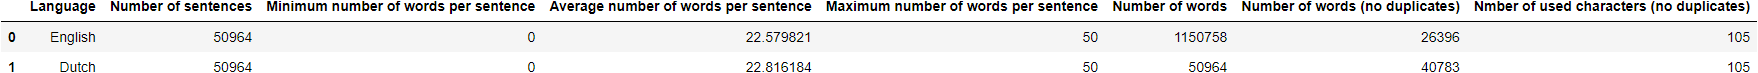
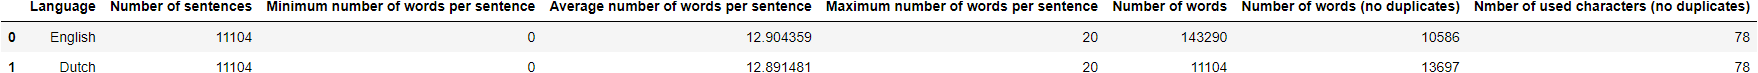
final models with word2vec and glvoe embedding

diff --git a/final.py b/final.py
@@ -6,7 +6,8 @@ from keras.models import Model, Sequential
 from keras.layers import Input, RepeatVector, GRU, Dense, TimeDistributed, Embedding, LSTM, Activation
 from keras.preprocessing.text import Tokenizer
 from keras_preprocessing.sequence import pad_sequences
-from keras.initializers import Constant
+from keras.initializers import Constant # for matrix with pre-trained embedding weights
+from gensim.models import KeyedVectors # to load in pretrained word2vec weights
 import dataframe_image as dfi
 
 # import corpuss
@@ -36,8 +37,8 @@ dfi.export(summary_corpus, "documentation/tables_as_image/summary_corpus.png")
 
 # select random data of corpus for tasks 2-4
 ## note: due to limited resources, 3% of the short sentences (<= 50 words) are taken as a sample
-nl_idx_short_sentences = [idx for idx, sentence in enumerate(corpus.nl) if len(sentence.split(" ")) <= 50] # the short sentence are determined by the dutch corpus as dutch tends to use more words than the english equivalent
-eng_idx_short_sentences = [idx for idx, sentence in enumerate(corpus.eng) if len(sentence.split(" ")) <= 50]
+nl_idx_short_sentences = [idx for idx, sentence in enumerate(corpus.nl) if len(sentence.split(" ")) <= 20] # the short sentence are determined by the dutch corpus as dutch tends to use more words than the english equivalent
+eng_idx_short_sentences = [idx for idx, sentence in enumerate(corpus.eng) if len(sentence.split(" ")) <= 20]
 idx_short_sentences = list(set(nl_idx_short_sentences) & set(eng_idx_short_sentences))
 corpus_short = corpus.filter(items=idx_short_sentences, axis=0)
 sample = corpus_short.sample(round(len(corpus_short) * 0.03))
@@ -124,7 +125,8 @@ dfi.export(summary_sample, "documentation/tables_as_image/summary_sample.png")
 
 
 # TASK 3: comparison of performance of neural machine translator depending word embedding and tokenization (word or character)
-# function for building ecoder-decoder model without embedding
+# no embedding:
+# function for building ecoder-decoder model without embedding (only one-hot representation)
 def encdec_model(input_shape, output_max_len, output_vocab_size):
     model = Sequential()
     model.add(GRU(64, input_shape = input_shape[1:], return_sequences = False))
@@ -144,10 +146,11 @@ nl2eng_encdec_char_model = encdec_model(nl_pad_sentence_char.shape, max_eng_len_
 
 
 
+# keras' native embedding model:
 # function for building ecoder-decoder model with Keras' embedding model
-def keras_embd_encdec_model(input_shape, output_max_len, output_vocab_size):
+def keras_embd_encdec_model(input_shape, output_max_len, output_vocab_size, input_vocab_size):
     model = Sequential()
-    model.add(Embedding(output_vocab_size, 64, input_length=input_shape[1])) #embeddings_initializer: Initializer for the embeddings matrix (see keras.initializers)
+    model.add(Embedding(input_vocab_size, 32, input_length=input_shape[1], trainable = True))
     model.add(GRU(64, return_sequences = False))
     model.add(RepeatVector(output_max_len))
     model.add(GRU(64, return_sequences = True))
@@ -156,17 +159,16 @@ def keras_embd_encdec_model(input_shape, output_max_len, output_vocab_size):
     return model
 
 # build word-based english to dutch and dutch to english translator with keras embedding
-eng2nl_keras_embd_encdec_word_model = keras_embd_encdec_model(eng_pad_sentence_word.shape, max_nl_len_word, nl_vocab)
-nl2eng_keras_embd_encdec_word_model = keras_embd_encdec_model(nl_pad_sentence_word.shape, max_eng_len_word, eng_vocab)
+eng2nl_keras_embd_encdec_word_model = keras_embd_encdec_model(eng_pad_sentence_word.shape, max_nl_len_word, nl_vocab, eng_vocab)
+nl2eng_keras_embd_encdec_word_model = keras_embd_encdec_model(nl_pad_sentence_word.shape, max_eng_len_word, eng_vocab, nl_vocab)
 
 # build character-based english to dutch and dutch to english translator with keras embedding
-eng2nl_keras_embd_encdec_char_model = keras_embd_encdec_model(eng_pad_sentence_char.shape, max_nl_len_char, nl_char)
-nl2eng_keras_embd_encdec_char_model = keras_embd_encdec_model(nl_pad_sentence_char.shape, max_eng_len_char, eng_char)
+eng2nl_keras_embd_encdec_char_model = keras_embd_encdec_model(eng_pad_sentence_char.shape, max_nl_len_char, nl_char, eng_char)
+nl2eng_keras_embd_encdec_char_model = keras_embd_encdec_model(nl_pad_sentence_char.shape, max_eng_len_char, eng_char, nl_char)
 
 
 
-
-
+# glove embedding:
 # get all of glove's pre-trained weights
 glove_word_vectors = {}
 with open("data\glove.6B.300d.txt", encoding="utf8") as glove_data:
@@ -178,16 +180,19 @@ with open("data\glove.6B.300d.txt", encoding="utf8") as glove_data:
 
 # select glove vectors whose words are also present in the english corpus and store it in a matrix
 glove_embedding_matrix = np.zeros((eng_vocab, 300)) # 300 = word vector dimension = number of weights per word in glove --> see: len(glove_word_vectors["the"])
+words_not_in_glove = []
 for word, i in eng_text_tokenizer_word.word_index.items():        
     embedding_vector = glove_word_vectors.get(word)
     if embedding_vector is not None: # non exisiting words will be zero            
         glove_embedding_matrix[i] = embedding_vector
+    else : 
+        words_not_in_glove.append(word)
 
-# function for building ecoder-decoder model with Keras' embedding model
-def glove_embd_encdec_model(input_shape, output_max_len, output_vocab_size):
+# function for building ecoder-decoder model with Glove embedding
+def glove_embd_encdec_model(input_shape, output_max_len, output_vocab_size, input_vocab_size):
     #build model
     model = Sequential()
-    model.add(Embedding(glove_embedding_matrix.shape[0], 300, input_length=input_shape[1], embeddings_initializer=Constant(glove_embedding_matrix)))
+    model.add(Embedding(input_vocab_size, 300, input_length=input_shape[1], embeddings_initializer=Constant(glove_embedding_matrix)))
     model.add(GRU(64, return_sequences = False))
     model.add(RepeatVector(output_max_len))
     model.add(GRU(64, return_sequences = True))
@@ -195,38 +200,100 @@ def glove_embd_encdec_model(input_shape, output_max_len, output_vocab_size):
     model.compile(loss='sparse_categorical_crossentropy', optimizer='adam', metrics=['accuracy'])
     return model
 
-# build models capable of using glove
-eng2nl_glove_embd_encdec_word_model = glove_embd_encdec_model(eng_pad_sentence_word.shape, max_nl_len_word, nl_vocab)
+# build models (only those capable of using pretrained glove: english as input language and word-based)
+eng2nl_glove_embd_encdec_word_model = glove_embd_encdec_model(eng_pad_sentence_word.shape, max_nl_len_word, nl_vocab, eng_vocab)
 
-#other pretrained weights: https://code.google.com/archive/p/word2vec/
-done_models = [
+
+
+# word2vec embedding:
+# word2vec embedding based on pre-trained weights (source: https://code.google.com/archive/p/word2vec/):
+word2vec = KeyedVectors.load_word2vec_format("data\GoogleNews-vectors-negative300.bin", binary=True) # get all pretrained weigths
+
+# select word2vec vectors whose words are also present in the english corpus and store it in a matrix
+word2vec_embedding_matrix = np.zeros((eng_vocab, 300)) # 300 = word2vec vector dimension (= 300 weigths per word)
+words_not_in_word2vec = []
+for word, i in eng_text_tokenizer_word.word_index.items():  
+    if word in word2vec : 
+        word2vec_embedding_matrix[i] = word2vec[word]
+    else : 
+        words_not_in_word2vec.append(word)
+
+# function for building ecoder-decoder model with word2vec embedding
+def word2vec_embd_encdec_model(input_shape, output_max_len, output_vocab_size, input_vocab_size):
+    #build model
+    model = Sequential()
+    model.add(Embedding(input_vocab_size, 300, input_length=input_shape[1], embeddings_initializer=Constant(word2vec_embedding_matrix))) # 300 due to word2vec vector dimension
+    model.add(GRU(64, return_sequences = False))
+    model.add(RepeatVector(output_max_len))
+    model.add(GRU(64, return_sequences = True))
+    model.add(TimeDistributed(Dense(output_vocab_size, activation = 'softmax')))
+    model.compile(loss='sparse_categorical_crossentropy', optimizer='adam', metrics=['accuracy'])
+    return model
+
+# build models (only those capable of using pretrained word2vec: english as input language and word-based)
+eng2nl_word2vec_embd_encdec_word_model = word2vec_embd_encdec_model(eng_pad_sentence_word.shape, max_nl_len_word, nl_vocab, eng_vocab)
+
+
+
+# TASK 4: neural machine translation with attention (based on guide: https://towardsdatascience.com/light-on-math-ml-attention-with-keras-dc8dbc1fad39)
+#https://github.com/thushv89/attention_keras
+from attention_keras.src.layers.attention import AttentionLayer
+
+def attention_encdec_model():
+    model = Sequential()
+    return model
+
+# build models with attention mechanism
+
+
+model_training_manuals = [
+    {   
+        "title" : "English to Dutch translator (word-based, Word2Vec embedding)",
+        "model" : eng2nl_word2vec_embd_encdec_word_model,
+        "X" : eng_pad_sentence_word,
+        "y" : nl_pad_sentence_word
+    },
+    {   
+        "title" : "English to Dutch translator (word-based, Glove embedding)",
+        "model" : eng2nl_glove_embd_encdec_word_model,
+        "X" : eng_pad_sentence_word,
+        "y" : nl_pad_sentence_word
+    }, 
     {   
         "title" : "English to Dutch translator (word-based)",
         "model" : eng2nl_encdec_word_model,
         "X" : eng_pad_sentence_word,
         "y" : nl_pad_sentence_word
     },
+
     {
         "title" : "Dutch to English translator (word-based)",
         "model" : nl2eng_encdec_word_model,
         "X" : nl_pad_sentence_word,
         "y" : eng_pad_sentence_word
     },
+
     {
         "title" : "English to Dutch translator (char-based)", 
         "model" : eng2nl_encdec_char_model,
         "X" : eng_pad_sentence_char,
         "y" : nl_pad_sentence_char
     },
+
     {
         "title" :"Dutch to English translator (char-based)", 
         "model" : nl2eng_encdec_char_model,
         "X" : nl_pad_sentence_char,
         "y" : eng_pad_sentence_char
+    }, 
+
+    {
+        "title" : "Dutch to English translator (word-based, Keras' embedding)",
+        "model" : nl2eng_keras_embd_encdec_word_model,
+        "X" : nl_pad_sentence_word,
+        "y" : eng_pad_sentence_word
     },
-]
-model_training_manuals = [
-    
+
     {   
         "title" : "English to Dutch translator (word-based, Keras' embedding)",
         "model" : eng2nl_keras_embd_encdec_word_model,
@@ -234,29 +301,18 @@ model_training_manuals = [
         "y" : nl_pad_sentence_word
     },
     {
-        "title" : "Dutch to English translator (word-based, Keras' embedding)",
-        "model" : nl2eng_keras_embd_encdec_word_model,
-        "X" : nl_pad_sentence_word,
-        "y" : eng_pad_sentence_word
-    },
-    {
         "title" : "English to Dutch translator (char-based, Keras' embedding)", 
         "model" : eng2nl_keras_embd_encdec_char_model,
         "X" : eng_pad_sentence_char,
         "y" : nl_pad_sentence_char
     },
+
     {
         "title" :"Dutch to English translator (char-based, Keras' embedding)", 
         "model" : nl2eng_keras_embd_encdec_char_model,
         "X" : nl_pad_sentence_char,
         "y" : eng_pad_sentence_char
-    },
-    {   
-        "title" : "English to Dutch translator (word-based, Glove embedding)",
-        "model" : eng2nl_glove_embd_encdec_word_model,
-        "X" : eng_pad_sentence_word,
-        "y" : nl_pad_sentence_word
-    },
+    }
 ]
 
 
@@ -268,10 +324,10 @@ for manual in model_training_manuals:
     manual["model"].summary()
 
     # train and test model
-    history = manual["model"].fit(manual["X"], manual["y"], batch_size=16, epochs=3, validation_split=0.2)
+    history = manual["model"].fit(manual["X"], manual["y"], batch_size=64, epochs=3, validation_split=0.2)
 
-    # accuracy of last epoch
-    print("Last measured accuracy score: ", history.history["accuracy"][2])
+    # accuracy of validation of last epoch
+    print("Last measured accuracy score: ", history.history["val_accuracy"][2])
 
     # visualise accuracy history
     plt.plot(history.history['accuracy'])

diff --git a/README.md b/README.md
@@ -13,7 +13,7 @@ This project creates several models for translating English to Dutch and vis-a-v
 ## Get started
 1. create virtual environment by entering in terminal: py -3 -m venv .venv
 2. activate newly created environment by entering in terminal: .venv\scripts\activate
-3. download packages by entering in terminal with active virtual environment: python -m pip install pandas, numpy, keras, tensorflow dataframe_image, (not install: Tensorflow, tf-nightly)
+3. download packages by entering in terminal with active virtual environment: python -m pip install pandas, numpy, keras, tensorflow dataframe_image, gensim, git+https://github.com/thushv89/attention_keras.git
 4. run phyton file by doing right click on respective file and selecting "Run Phyton file in terminal" or alternatively by entering in terminal witch active virtual environment: python file_name.p
 
 
